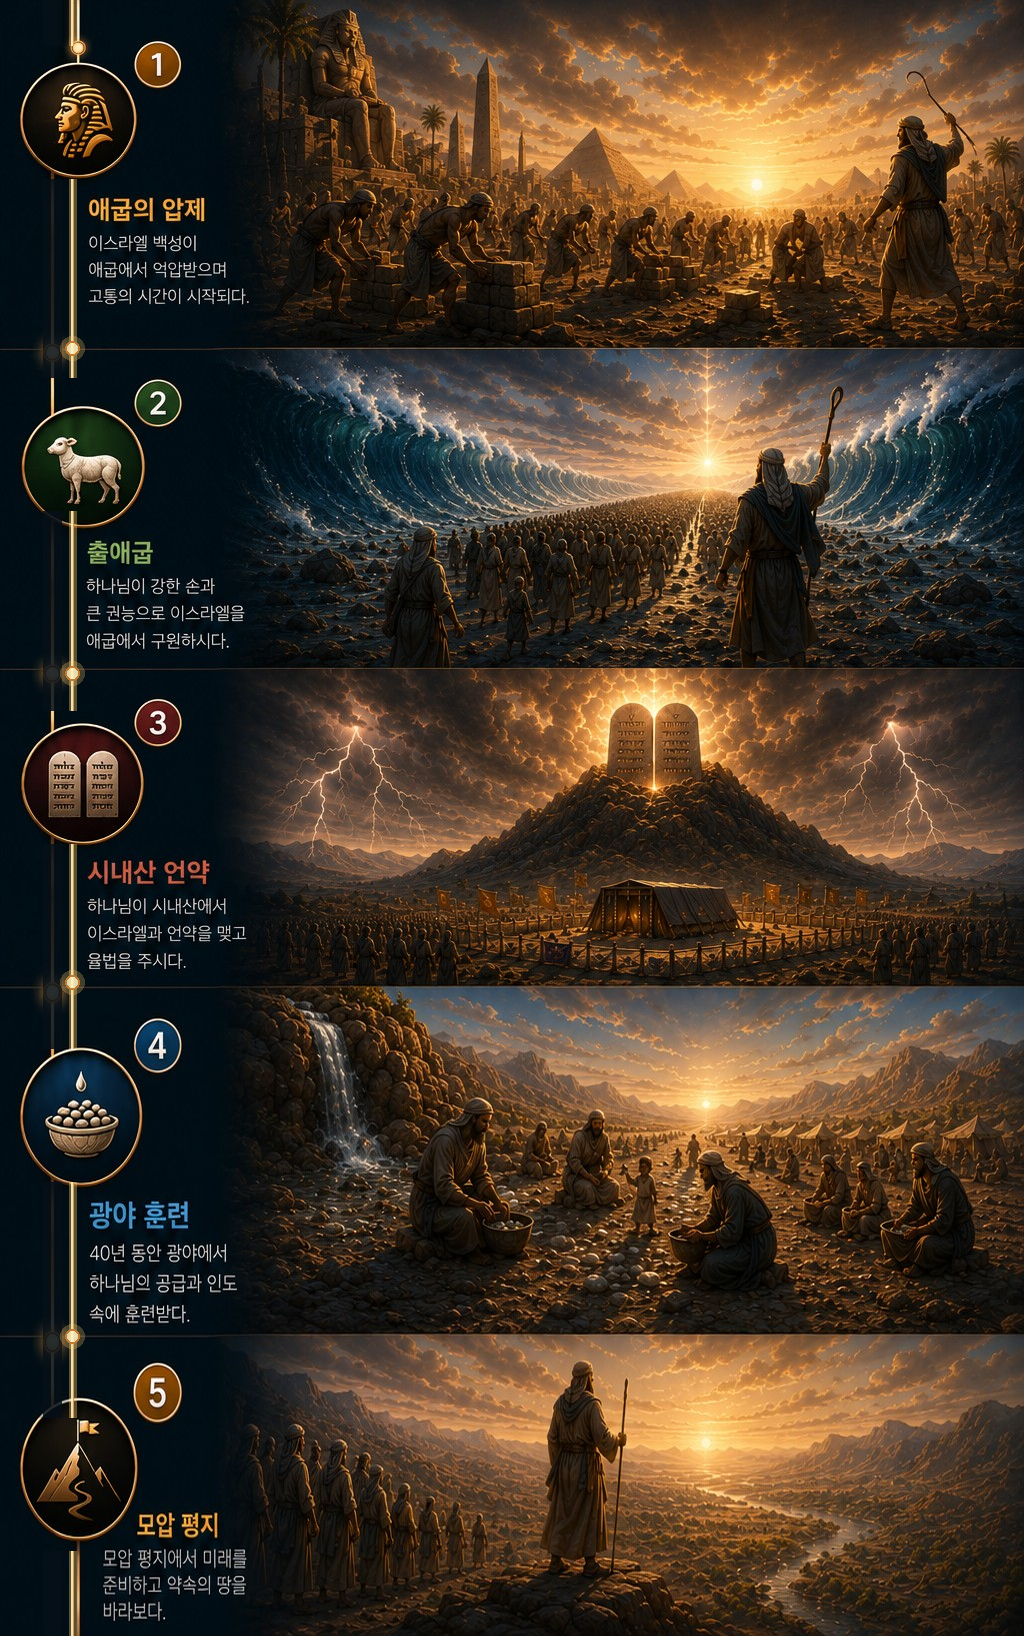
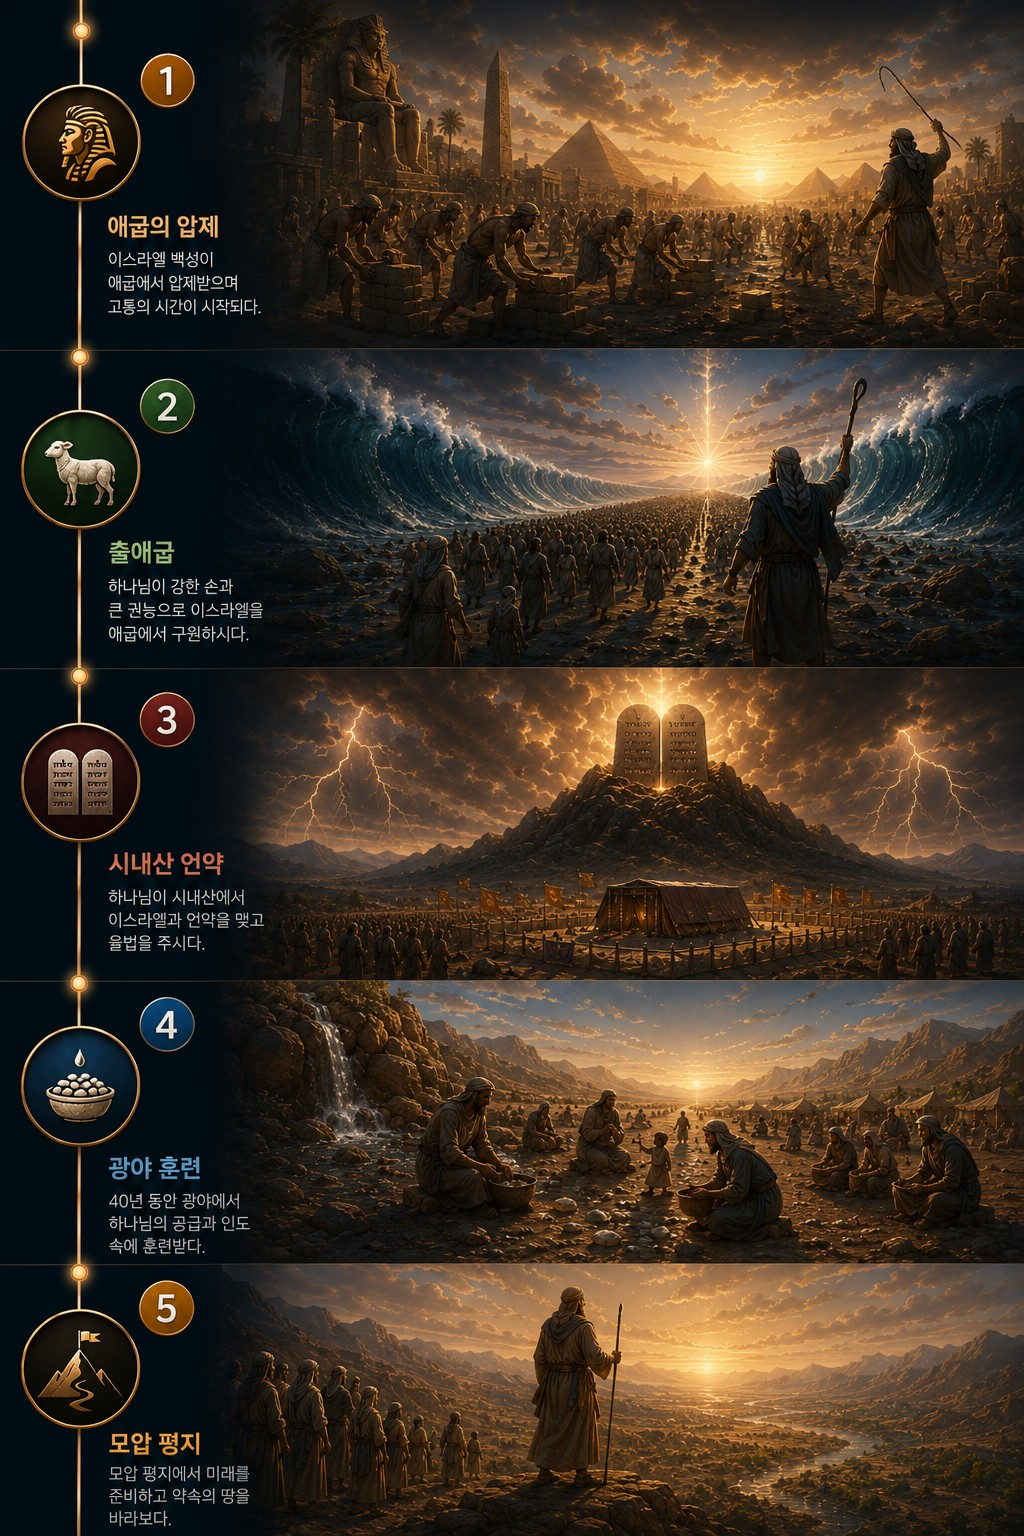
Add files via upload

diff --git a/style.css b/style.css
@@ -55,3 +55,22 @@
 .g3{top:53.0%;width:55%;right:1.4%;}
 .g4{top:72.2%;width:43%;right:2.4%;}
 .g5{top:88.0%;width:40%;right:2.6%;}
+
+/* v1.4: use user-approved 1024x1536 background as the main matrix screen */
+.stage{aspect-ratio:1024/1536 !important;}
+.bg{width:100%;height:100%;object-fit:cover !important;}
+.stage::before,.stage::after{display:none !important;}
+.titleLayer{top:1.2%;left:25%;right:3%;}
+.titleLayer h1{font-size:clamp(24px,6.6vw,40px);}
+.titleLayer p{font-size:clamp(10px,2.75vw,16px);}
+/* recalibrated row buttons for approved background */
+.e1{top:2.4%;height:18.4%;}
+.e2{top:20.7%;height:18.3%;}
+.e3{top:39.0%;height:18.7%;}
+.e4{top:57.8%;height:17.9%;}
+.e5{top:75.7%;height:16.8%;}
+.g1{top:19.0%;width:34%;right:3.2%;}
+.g2{top:35.2%;width:48%;right:2.0%;}
+.g3{top:52.6%;width:55%;right:1.4%;}
+.g4{top:69.8%;width:43%;right:2.4%;}
+.g5{top:85.6%;width:40%;right:2.6%;}